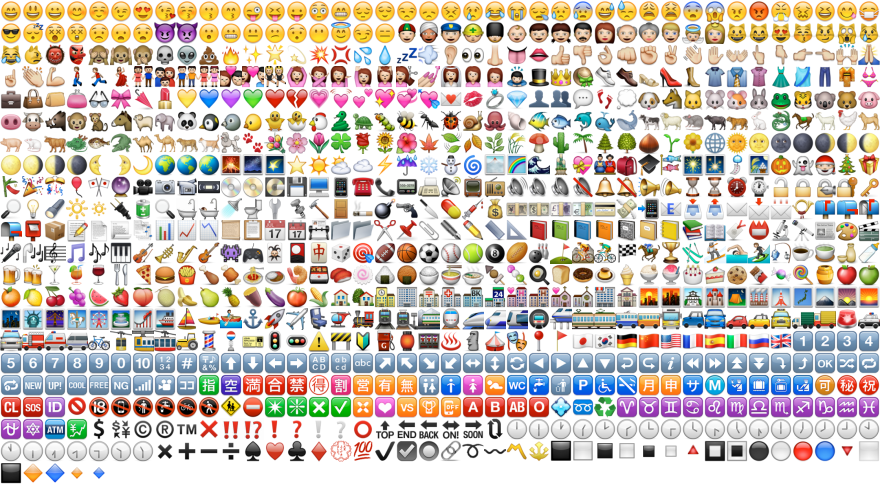
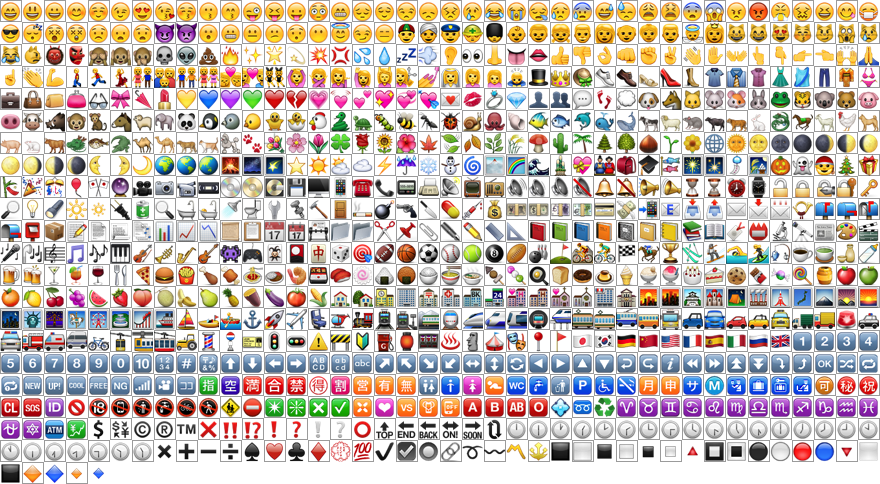
regen emojis started

diff --git a/Telegram/SourceFiles/_other/genemoji.cpp b/Telegram/SourceFiles/_other/genemoji.cpp
@@ -18,6 +18,7 @@ Copyright (c) 2014 John Preston, https://desktop.telegram.org
 #include "genemoji.h"
 
 #include <QtCore/QtPlugin>
+#include <QtGui/QFontDatabase>
 
 #ifdef Q_OS_WIN
 Q_IMPORT_PLUGIN(QWindowsIntegrationPlugin)
@@ -1091,6 +1092,28 @@ void writeEmojiCategory(QTextStream &tcpp, uint64 *emojiCategory, uint32 size, c
 	tcpp << "\t} break;\n\n";
 }
 
+QString textEmojiString(const EmojiData *emoji) {
+	QString result;
+	int len = emoji->code2 ? 4 : ((emoji->code >> 16) ? 2 : 1);
+	bool withPostfix = emojiWithPostfixes.constFind(emoji->code) != emojiWithPostfixes.constEnd();
+	result.reserve(len + (withPostfix ? 1 : 0));
+	switch (len) {
+		case 1: result.append(QChar(emoji->code & 0xFFFF)); break;
+		case 2:
+			result.append(QChar((emoji->code >> 16) & 0xFFFF));
+			result.append(QChar(emoji->code & 0xFFFF));
+			break;
+		case 4:
+			result.append(QChar((emoji->code >> 16) & 0xFFFF));
+			result.append(QChar(emoji->code & 0xFFFF));
+			result.append(QChar((emoji->code2 >> 16) & 0xFFFF));
+			result.append(QChar(emoji->code2 & 0xFFFF));
+			break;
+	}
+	if (withPostfix) result.append(QChar(0xFE0F));
+	return result;
+}
+
 bool genEmoji(QString emoji_in, const QString &emoji_out, const QString &emoji_png) {
 	int currentRow = 0, currentColumn = 0;
 	uint32 min1 = 0xFFFFFFFFU, max1 = 0, min2 = 0xFFFFFFFFU, max2 = 0;
@@ -1165,17 +1188,40 @@ bool genEmoji(QString emoji_in, const QString &emoji_out, const QString &emoji_p
 		return true;
 	}
 
+	for (int i = 0, l = sizeof(emojiPostfixed) / sizeof(emojiPostfixed[0]); i < l; ++i) {
+		emojiWithPostfixes.insert(emojiPostfixed[i], true);
+	}
+
+	QStringList str = QFontDatabase::applicationFontFamilies(QFontDatabase::addApplicationFont(QStringLiteral("/System/Library/Fonts/Apple Color Emoji.ttf")));
+	for (int i = 0, l = str.size(); i < l; ++i) {
+	}
+
+	qreal emojiFontSizes[4] = { 14.0, 19.0, 27.0, 36.0 };
+	int emojiDeltas[4] = { 15, 19, 25, 34 };
 	for (int variantIndex = 0; variantIndex < variantsCount; variantIndex++) {
 		int imSize = imSizes[variantIndex];
 
+		QFont f(QGuiApplication::font());
+		f.setFamily(QStringLiteral("Apple Color Emoji"));
+		f.setPointSizeF(emojiFontSizes[variantIndex]);
+
 		QImage emojisImg(inRow * imSize, currentRow * imSize, QImage::Format_ARGB32);
-		QPainter p(&emojisImg);
-		p.setCompositionMode(QPainter::CompositionMode_Source);
-		p.fillRect(0, 0, emojisImg.width(), emojisImg.height(), Qt::transparent);
-		for (EmojisData::const_iterator i = emojisData.cbegin(), e = emojisData.cend(); i != e; ++i) {
-			int ind = i->index, row = ind / emojisInRow[i->category], col = ind % emojisInRow[i->category], size = sizes[i->category];
-			QPixmap emoji = QPixmap::fromImage(sprites[i->category].copy(col * size, row * size, size, size).scaled(imSize, imSize, Qt::IgnoreAspectRatio, Qt::SmoothTransformation), Qt::ColorOnly);
-			p.drawPixmap(i->x * imSize, i->y * imSize, emoji);
+		{
+			QPainter p(&emojisImg);
+			p.setFont(f);
+			QPainter::CompositionMode m = p.compositionMode();
+			p.setCompositionMode(QPainter::CompositionMode_Source);
+			p.fillRect(0, 0, emojisImg.width(), emojisImg.height(), Qt::transparent);
+			p.setCompositionMode(m);
+			for (EmojisData::const_iterator i = emojisData.cbegin(), e = emojisData.cend(); i != e; ++i) {
+//				int ind = i->index, row = ind / emojisInRow[i->category], col = ind % emojisInRow[i->category], size = sizes[i->category];
+//				QPixmap emoji = QPixmap::fromImage(sprites[i->category].copy(col * size, row * size, size, size).scaled(imSize, imSize, Qt::IgnoreAspectRatio, Qt::SmoothTransformation), Qt::ColorOnly);
+				p.setPen(QColor(0, 0, 0, 255));
+				p.drawText(i->x * imSize, i->y * imSize + emojiDeltas[variantIndex], textEmojiString(&i.value()));
+				p.setPen(QColor(((i->x + i->y) % 2) ? 255 : 0, ((i->x + i->y) % 2) ? 255 : 0, ((i->x + i->y) % 2) ? 255 : 0, 100));
+				p.drawRect(i->x * imSize, i->y * imSize, imSize - 1, imSize - 1);
+//				p.drawPixmap(i->x * imSize, i->y * imSize, emoji);
+			}
 		}
 		QString postfix = variantPostfix[variantIndex], emojif = emoji_png + postfix + ".png";
 		QByteArray emojib;
@@ -1210,10 +1256,6 @@ bool genEmoji(QString emoji_in, const QString &emoji_out, const QString &emoji_p
 				}
 			}
 		}
-	}
-
-	for (int i = 0, l = sizeof(emojiPostfixed) / sizeof(emojiPostfixed[0]); i < l; ++i) {
-		emojiWithPostfixes.insert(emojiPostfixed[i], true);
 	}
 
 	try {

diff --git a/Telegram/SourceFiles/_other/updater_osx.m b/Telegram/SourceFiles/_other/updater_osx.m
@@ -132,7 +132,7 @@ int main(int argc, const char * argv[]) {
 	}
 
 	if (update) {
-		writeLog(@"Starting update files iteration!");
+		writeLog([@"Starting update files iteration, path: " stringByAppendingString: [workDir stringByAppendingString:@"tupdates/ready"]]);
 
 		NSFileManager *fileManager = [NSFileManager defaultManager];
 		NSString *srcDir = [workDir stringByAppendingString:@"tupdates/ready/"];
@@ -142,6 +142,7 @@ int main(int argc, const char * argv[]) {
 											 includingPropertiesForKeys:keys
 											 options:0
 											 errorHandler:^(NSURL *url, NSError *error) {
+												 writeLog([[[@"Error in enumerating " stringByAppendingString:[url absoluteString]] stringByAppendingString: @" error is: "] stringByAppendingString: [error description]]);
 												 return NO;
 											 }];
 		for (NSURL *url in enumerator) {
